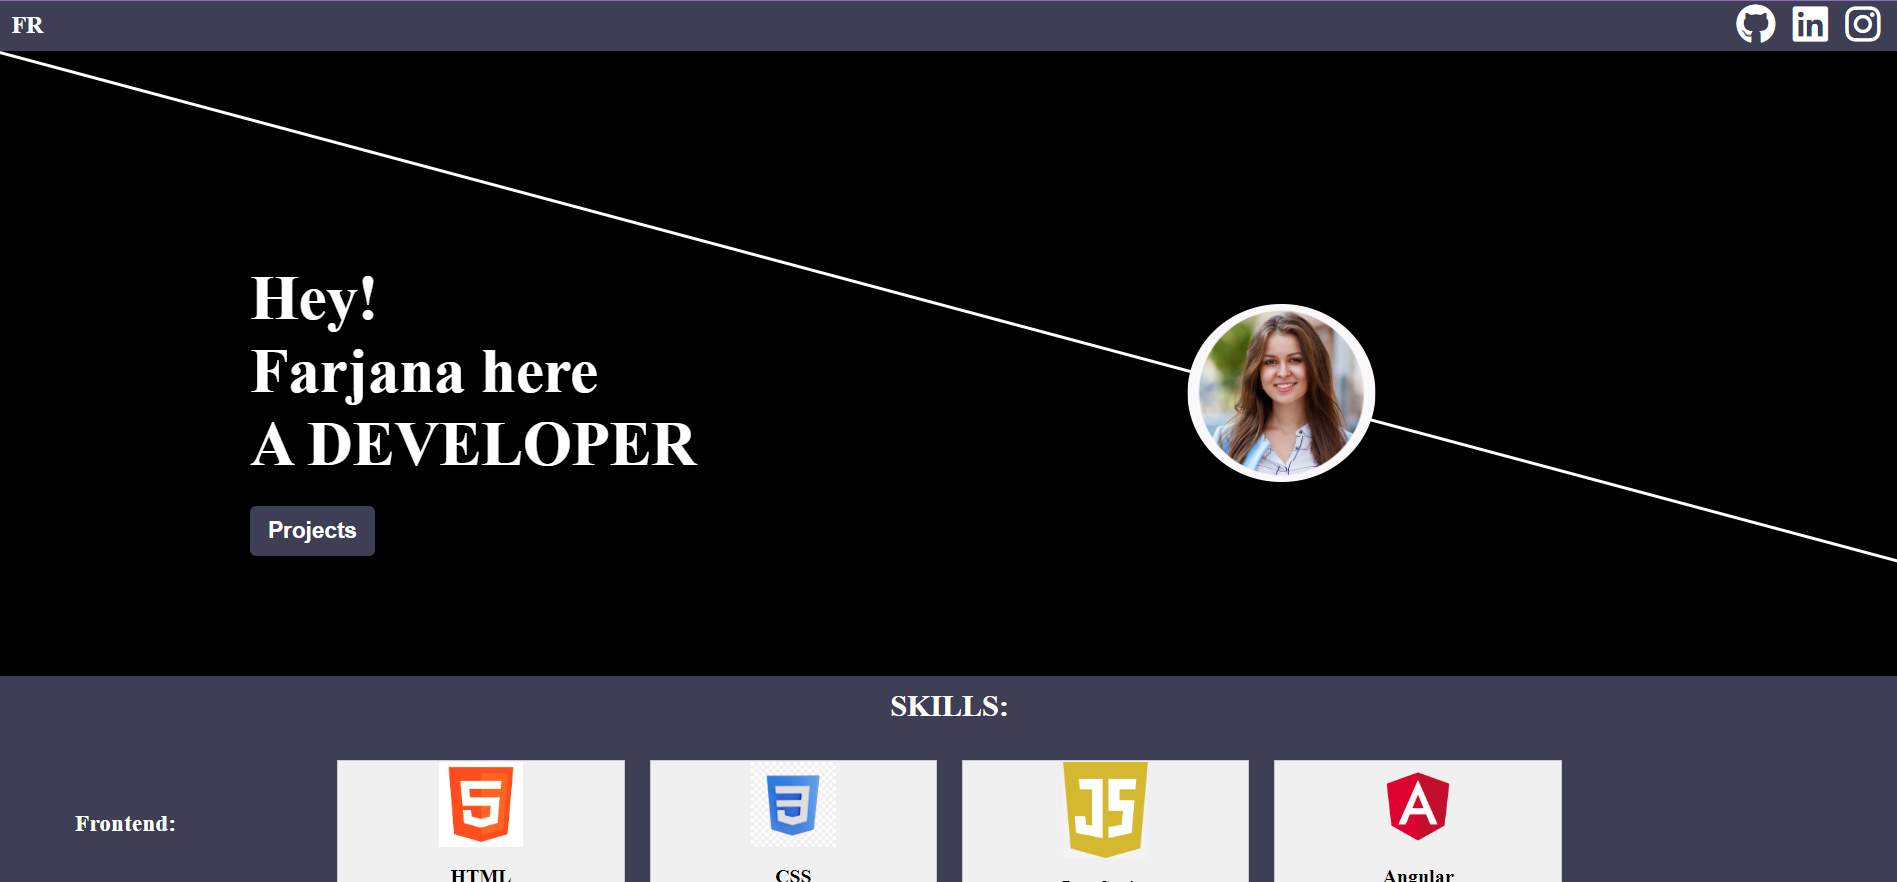
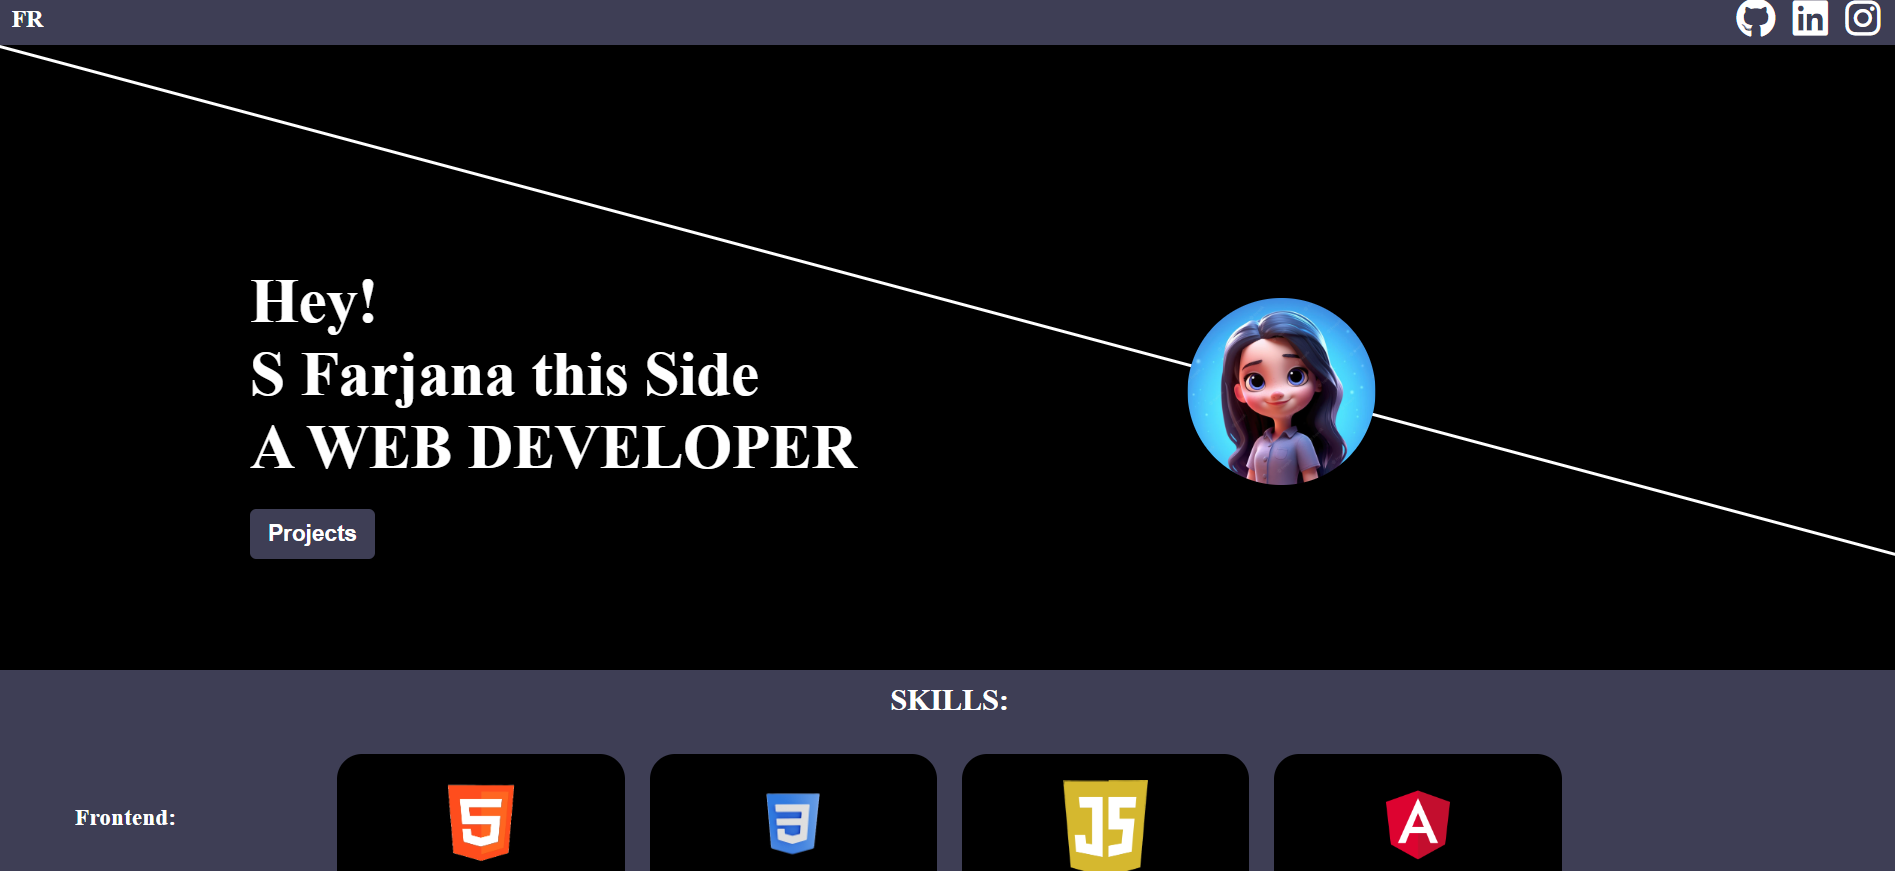
minor changes1

diff --git a/index.html b/index.html
@@ -25,7 +25,7 @@
         </div>
         <p>Hey!</p>
         <p>S Farjana this Side</p>
-        <p>A FRONTEND DEVELOPER</p>
+        <p>A WEB DEVELOPER</p>
         <button><a href="projects.html">Projects</a></button>
     </div>
     <div class="skill-head"><h2>SKILLS:</h2></div>
